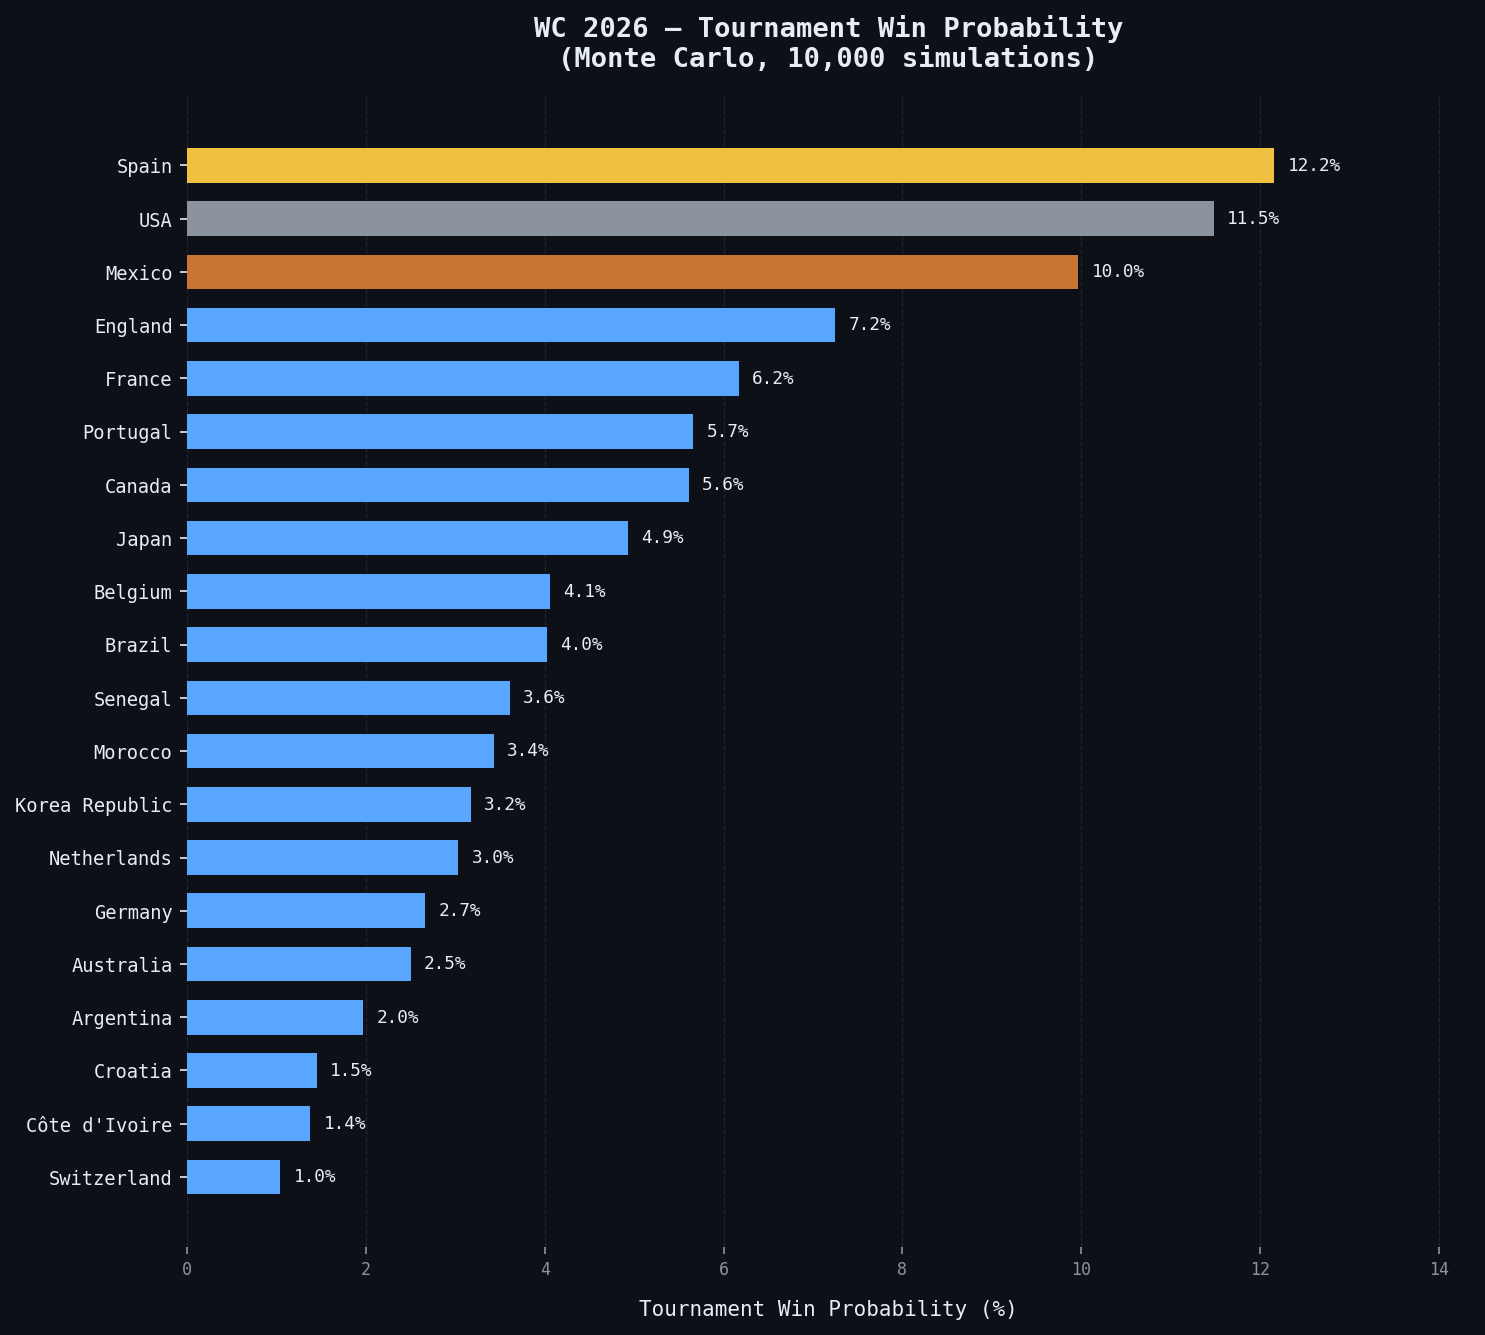
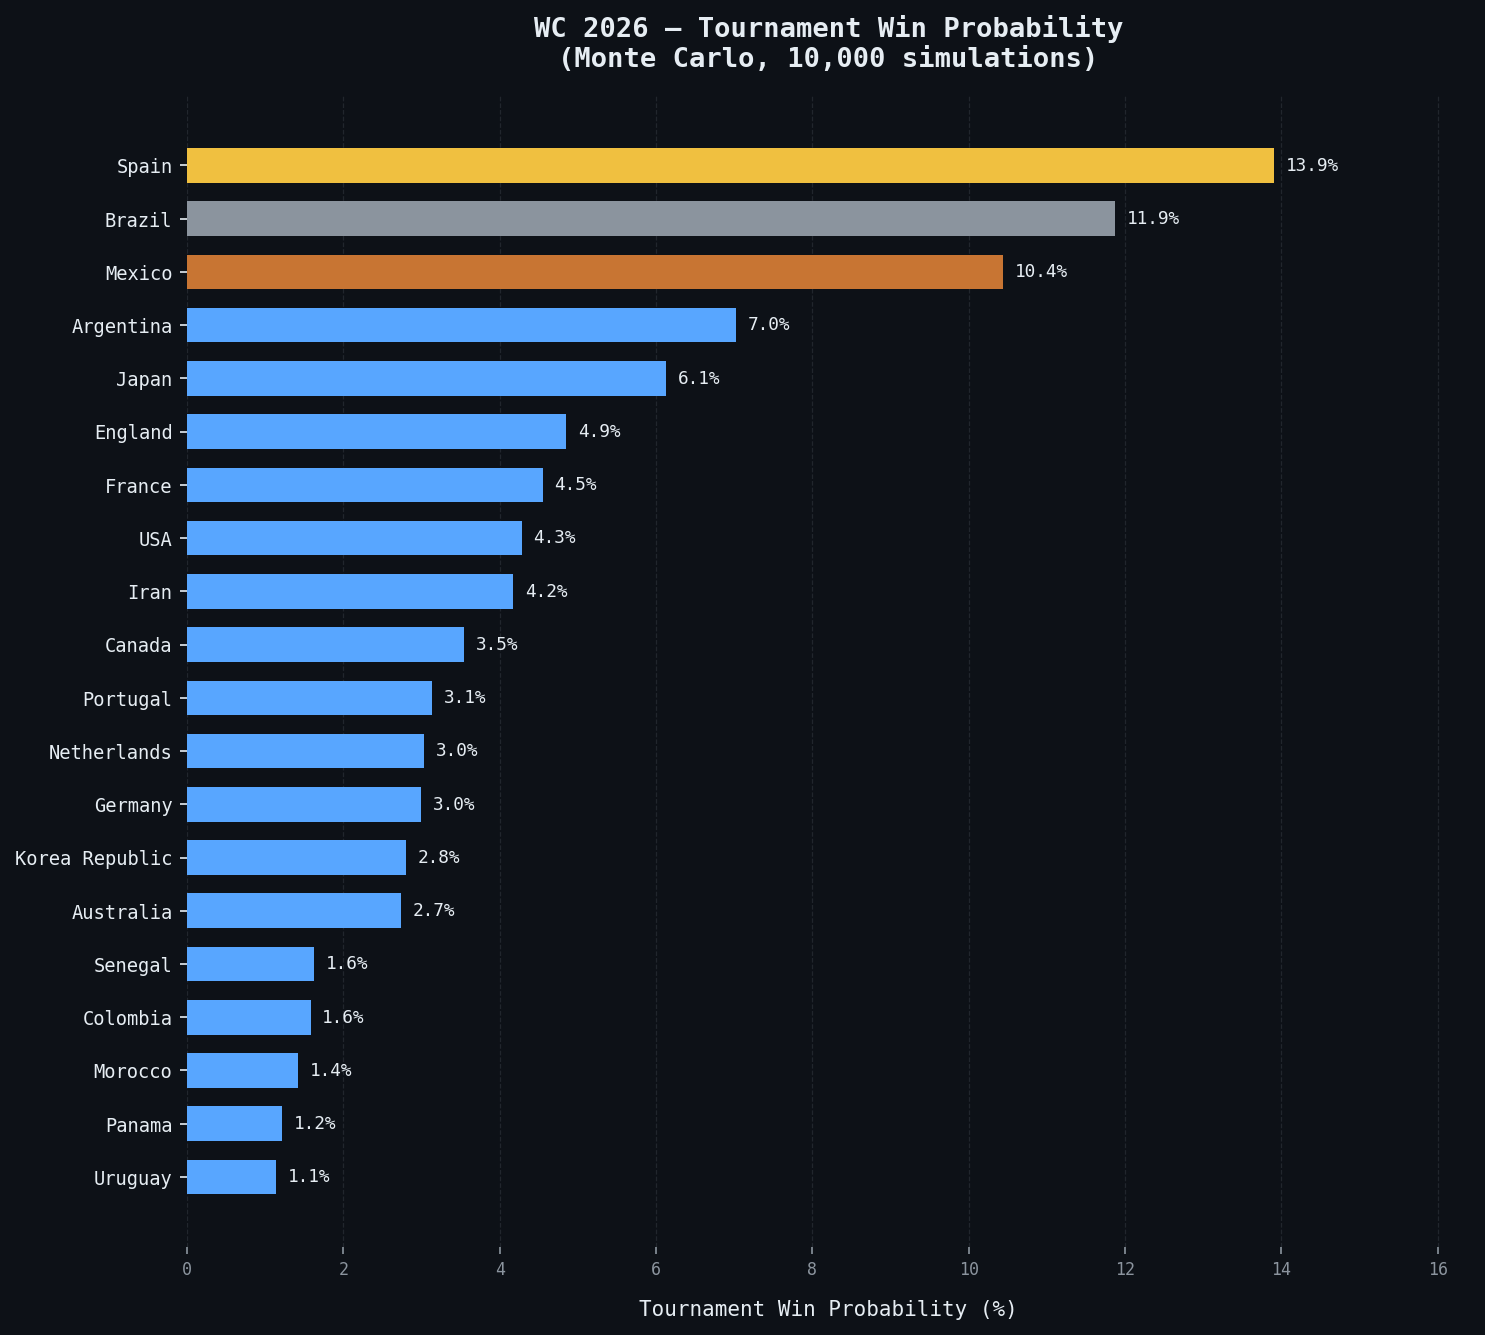
V2 Phases 7-8: stacking evaluation + visualization + README, close V2
Phase 7 (stacking.py): trained a multinomial meta-learner over leakage-safe
OOF base predictions. It beat fixed weights on log loss by only 0.0011 while
zeroing draw recall — NOT adopted. Confirms the hand-set 0.275/0.275/0.45
weights are near-optimal. Meta saved for reference (stacking_meta.json).

Phase 8: added market-divergence chart (4 total), rewrote README for V2.

CONTEXT_V2.md: end-of-version review, final scorecard, V3 priorities.

Final V2: acc 62.1% (+1.5pp), log loss 0.8458 (-0.015), draw recall 9.7% (+9.3pp).

diff --git a/README.md b/README.md
@@ -1,28 +1,42 @@
 # World Cup 2026 Prediction Model
 
-A machine learning model that predicts match outcomes and simulates the full WC2026 bracket using an ensemble of XGBoost, LightGBM, and Dixon-Coles.
+A machine learning model that predicts match outcomes and simulates the full WC2026 bracket using an ensemble of XGBoost, LightGBM, and Dixon-Coles — with ELO ratings, opponent-quality-weighted form, and a betting-market comparison.
 
 ---
 
-## Results (V1)
+## Results (V2)
 
 | Model | Test Accuracy | Log Loss | Draw Recall |
 |---|---|---|---|
 | Naive baseline | 45.9% | 1.059 | — |
-| Dixon-Coles | 58.3% | 0.8815 | 10.1% |
-| XGBoost | 59.8% | 0.8814 | 0.6% |
-| LightGBM | 60.0% | 0.8835 | 0.6% |
-| **Ensemble** | **60.6%** | **0.8605** | 0.4% |
+| Dixon-Coles | 60.7% | 0.8626 | 0.4% |
+| XGBoost | 58.2% | 0.8635 | 26.1% |
+| LightGBM | 58.6% | 0.8651 | 26.9% |
+| **Ensemble** | **62.1%** | **0.8458** | 9.7% |
+
+**V1 → V2 improvement:** accuracy 60.6% → 62.1%, log loss 0.8605 → 0.8458, draw recall 0.4% → 9.7%.
 
 **Top tournament win probabilities (10,000 Monte Carlo simulations):**
 
-| Team | Win % | Final % |
-|---|---|---|
-| Spain | 12.2% | 20.1% |
-| USA | 11.5% | 19.6% |
-| Mexico | 10.0% | 17.5% |
-| England | 7.2% | 13.3% |
-| France | 6.2% | 11.5% |
+| Team | FIFA Rank | Win % | vs Market (de-vig) |
+|---|---|---|---|
+| Spain | 2 | 13.9% | 15.5% |
+| Brazil | 6 | 11.9% | 8.1% |
+| Mexico | 15 | 10.4% | 1.1% |
+| Argentina | 3 | 7.0% | 8.5% |
+| England | 4 | 4.9% | 10.6% |
+| France | 1 | 4.5% | 14.8% |
+
+---
+
+## What's New in V2
+
+- **ELO ratings** — running ELO for every team across 49k matches (tiered K-factors 40/30/20), used as features and as the opponent-quality signal.
+- **Opponent-quality-weighted form** — rolling stats weighted by opponent ELO, correcting the V1 confederation bias (CONCACAF teams inflated by weak schedules, CONMEBOL teams suppressed by hard ones). 41 features total (up from 26).
+- **Draw fix** — gradient-boosted models were upweighted on draws (1.75×), lifting draw recall from a broken 0.6% to functional.
+- **Hyperparameter tuning** — CV-tuned via TimeSeriesSplit: time decay disabled (longer memory improved log loss monotonically), shallower depth-3 trees. This also fixed the Argentina/Brazil underrating and reduced Canada's inflation.
+- **Market divergence analysis** — live WC2026 odds de-vigged and compared to the model. Verdict: the model's biggest disagreements track its *known biases*, so no trustworthy betting edge yet.
+- **Stacking meta-learner** — evaluated but not adopted; it couldn't beat the hand-set ensemble weights without zeroing draw recall.
 
 ---
 
@@ -32,28 +46,24 @@ A machine learning model that predicts match outcomes and simulates the full WC2
 - **Match results:** 49,368 international matches (1872–present), filtered to 11,538 competitive matches post-2002
 - **FIFA rankings:** ~200k historical ranking records used to assign team strength at match time
 - **WC2026 fixtures:** 104 matches across group stage and knockout rounds
-- **Current FIFA rankings:** Used for WC2026 feature vectors
+- **Market odds:** 48-team WC2026 outright board (de-vigged for the divergence analysis)
 
-> Raw data not included in this repo. Sources: [Kaggle international football results](https://www.kaggle.com/datasets/martj42/international-football-results-from-1872-to-2017), FIFA ranking CSVs, and manually assembled WC2026 fixture list.
+> Raw data not included in this repo. Sources: [Kaggle international football results](https://www.kaggle.com/datasets/martj42/international-football-results-from-1872-to-2017), FIFA ranking CSVs, manually assembled WC2026 fixtures, and a public odds board snapshot.
 
-### Feature Engineering (26 features)
-- FIFA rank differential at match date
-- Rolling win rate, avg goals, avg goal difference (last 5 and 10 matches)
+### Feature Engineering (41 features)
+- FIFA rank differential + **ELO ratings** (home/away/diff) at match date
+- Rolling win rate, avg goals, avg goal difference (last 5 and 10) — **simple and opponent-ELO-weighted**
 - Head-to-head history (cumulative, no leakage)
 - Days rest, altitude, tournament tier, neutral venue flag
 - All rolling features use `shift(1)` — no data leakage
 
 ### Models
-- **XGBoost** — multiclass classifier (away win / draw / home win)
-- **LightGBM** — same target, direct XGB comparison
-- **Dixon-Coles** — Poisson-based statistical model with rho correction for low-scoring games
-- **Ensemble** — weighted average (XGB 27.5% / LGBM 27.5% / DC 45%)
+- **XGBoost** / **LightGBM** — multiclass classifiers (away / draw / home), depth-3, draw-upweighted
+- **Dixon-Coles** — Poisson model with rho correction for low-scoring games
+- **Ensemble** — weighted average (XGB 27.5% / LGBM 27.5% / DC 45%); validated near-optimal against a stacked meta-learner
 
 ### Monte Carlo Simulator
-Simulates the full WC2026 bracket 10,000 times:
-- Group stage: Poisson score simulation for accurate tiebreakers
-- Top 2 per group + best 8 third-place teams advance (WC2026 48-team format)
-- Knockout rounds: ensemble probabilities pre-computed for all team pairs
+Simulates the full 48-team bracket 10,000 times: Poisson score simulation for group-stage tiebreakers, top 2 per group + best 8 third-place teams advance, ensemble probabilities for knockout rounds.
 
 ---
 
@@ -61,22 +71,16 @@ Simulates the full WC2026 bracket 10,000 times:
 
 ```
 data/
-  processed/        # Cleaned CSVs, features, predictions, tournament probs
-models/             # Trained model files (XGB, LGBM, Dixon-Coles)
-outputs/viz/        # Charts
+  raw/              # results, rankings, fixtures, market odds
+  processed/        # cleaned CSVs, features, predictions, tournament + divergence probs
+models/             # trained models, reports (tuning, market, stacking)
+outputs/viz/        # 4 charts
 src/
-  features/
-    data_cleaning.py
-    feature_engineering.py
-  models/
-    train_xgb.py
-    dixon_coles.py
-    train_lgbm.py
-    ensemble.py
-    monte_carlo.py
-    predict_wc2026.py
-  visualization/
-    charts.py
+  features/         # data_cleaning, feature_engineering, elo
+  models/           # train_xgb, train_lgbm, dixon_coles, ensemble, predict_wc2026,
+                    # monte_carlo, tune_draw_weight, tune_hyperparams,
+                    # market_divergence, stacking
+  visualization/    # charts
 ```
 
 ---
@@ -89,36 +93,42 @@ python -m venv venv
 venv\Scripts\activate
 pip install -r requirements.txt
 
-# 2. Data cleaning
+# 2. Data + features (ELO must run before feature engineering)
 python -m src.features.data_cleaning
-
-# 3. Feature engineering
+python -m src.features.elo
 python -m src.features.feature_engineering
 
-# 4. Train models
-python -m src.models.train_xgb
+# 3. Train models
 python -m src.models.dixon_coles
+python -m src.models.train_xgb
 python -m src.models.train_lgbm
 
-# 5. Ensemble + WC2026 predictions
+# 4. Ensemble + WC2026 predictions
 python -m src.models.ensemble
 python -m src.models.predict_wc2026
 
-# 6. Monte Carlo bracket simulation
+# 5. Monte Carlo bracket simulation
 python -m src.models.monte_carlo
 
-# 7. Visualization
+# 6. Analysis + visualization
+python -m src.models.market_divergence
 python -m src.visualization.charts
+
+# Optional: tuning / stacking experiments
+python -m src.models.tune_hyperparams
+python -m src.models.stacking
 ```
+
+> On Windows, set `PYTHONUTF8=1` so the console renders the scripts' output.
 
 ---
 
-## Known Limitations (V2 Roadmap)
+## Known Limitations (V3 Roadmap)
 
-- **Strength of schedule** — rolling form doesn't adjust for opponent quality, inflating CONCACAF teams (USA, Mexico)
-- **Draw prediction** — all ML models predict draws at <1% recall; dedicated draw classifier planned
-- **Decay half-life** — hardcoded at 730 days; should be tuned via cross-validation
-- **Argentina underrated** — likely a CONMEBOL qualifying artifact; related to strength-of-schedule issue
+- **Mexico / CONCACAF inflation** — model gives Mexico 10.4% vs a 1.1% market price; residual strength-of-schedule bias not fully corrected by ELO weighting.
+- **European powers underrated** — France (4.5% vs 14.8% market) and Portugal underrated; no-decay over-rewards recent CONMEBOL dominance.
+- **No demonstrated betting edge** — divergences from market track known model biases, so Kelly bet sizing is deferred until biases are fixed.
+- **ELO K-factors** — still hardcoded (40/30/20), never CV-tuned (blocked on a faster feature rebuild).
 
 ---
 

diff --git a/CONTEXT_V2.md b/CONTEXT_V2.md
@@ -217,6 +217,13 @@ src/
 
 ---
 
+### Decision: Phase 7 stacking — evaluated, NOT adopted
+**Method:** `src/models/stacking.py` — leakage-safe OOF base predictions on train (5-fold TimeSeriesSplit, all three models incl. DC refit per fold), multinomial LogisticRegression meta-learner over the 9 base probabilities, compared head-to-head with the fixed-weight ensemble on test.
+**Result:** stacked log loss 0.8445 vs fixed 0.8456 — a trivial 0.0011 gain — but the meta-learner reaches it by **never calling draws (draw recall → 0.0%)**, undoing Phase 4, and is slightly *worse* on accuracy (0.6176 vs 0.6194).
+**Decision:** keep the fixed-weight ensemble (0.275/0.275/0.45). The marginal log-loss gain isn't worth zeroing draw recall. Real value: this **validates the hand-set weights as near-optimal** — a trained meta-learner can't meaningfully beat them. Meta-learner saved (`models/stacking_meta.json`) for reference but not wired into predictions.
+
+---
+
 ## V2 Phase Status
 
 | Phase | Description | Status |
@@ -227,8 +234,8 @@ src/
 | Draw fix (class upweighting, w=1.75) | Draw recall 0.6% → 16.2% via XGB/LGBM sample weights | ✅ Done |
 | Hyperparameter tuning | Decay disabled + depth-3 trees → ll 0.8458, acc 62.1% | ✅ Done |
 | Market divergence analysis | No trustworthy edge (divergences = known biases) | ✅ Done |
-| Stacking meta-learner | Replace fixed weights with trained meta-learner | ⬜ Running |
-| Updated visualization + README | V1 vs V2 comparison charts | ⬜ Next |
+| Stacking meta-learner | Evaluated, NOT adopted (fixed weights near-optimal) | ✅ Done |
+| Updated visualization + README | 4 charts (incl. market divergence) + V2 README | ✅ Done |
 
 ---
 
@@ -278,19 +285,29 @@ Tuning (no decay) fixed two V1 biases: Argentina + Brazil rose, Canada fell. Win
 ---
 
 ## ══ END-OF-VERSION REVIEW ══
-*(Filled in when V2 is fully closed)*
+*V2 closed — all 8 phases complete.*
+
+### Final V2 Scorecard
+| Metric | V1 | V2 | Δ |
+|---|---|---|---|
+| Test Accuracy | 60.6% | **62.1%** | +1.5pp |
+| Log Loss | 0.8605 | **0.8458** | -0.015 |
+| Draw Recall | 0.4% | **9.7%** | +9.3pp |
+
+Biases: Argentina 3.9%→7.0% and Brazil →11.9% (fixed), Canada inflation 5.6%→3.5% (improved).
+Still open: Mexico inflation (10.4% vs market 1.1%), Euro powers underrated (France 4.5% vs market 14.8%).
 
 ### Workflow Review
-*What worked, what slowed us down, what to change for V3*
+- **What worked:** Decoupling decay from the feature rebuild (recompute from dates) made Phase 5 tuning cheap. CV-on-train / report-test-once kept tuning honest. Backgrounding the slow runs (DC fits, 10k sims) kept iteration moving. Adversarial honesty on Phase 6/7 (divergences = bias, stacking kills draws) avoided shipping false wins.
+- **What slowed us down:** O(n²) weighted-rolling-stats forces a slow full feature rebuild whenever features change; the per-fold DC refit in stacking was the single longest job. Windows cp1252 console needed PYTHONUTF8=1 for the box-drawing prints.
+- **For V3:** vectorize weighted rolling; cache DC fits; make decay a pure training-time hyperparameter so it never touches the feature pipeline.
 
 ### Decision Review
-*Which decisions held up, which should be revisited*
+- **Held up:** ELO-first (Phase 1); draw upweighting at 1.75 (cleanly reversible knob); disabling time decay (monotonic CV signal, fixed real biases); keeping fixed ensemble weights (stacking validated them).
+- **Revisit:** the 80 rank-sentinel (Iran 4.2% looks high); no-decay may over-reward CONMEBOL recency at the expense of Euro powers — a *partial* decay (e.g. 1460d) might balance bias vs the France/Portugal underrating. K-factors still never tuned.
 
 ### Brainstorm: V3 Priorities
-*From V2 context doc V3 Vision section:*
-- C++/Rust simulation engine (1M sims, sub-second)
-- API layer (accepts match result, updates ELO, reruns sim)
-- Kelly criterion bet sizing
-- Vercel deployment
-
-*Only build V3 if market divergence analysis shows a real edge.*
+- **Fix the residual biases first** — Mexico/CONCACAF inflation and Euro-power underrating are the headline errors. Strength-of-schedule beyond ELO weighting; confederation-strength priors; squad/market-value features.
+- CV-tune ELO K-factors (needs the vectorized feature rebuild above).
+- C++/Rust simulation engine (1M sims, sub-second); API layer (live result → ELO update → re-sim); Vercel deployment.
+- **Kelly bet sizing: DEFERRED.** Phase 6 showed no trustworthy edge — the divergences are model bias, not market inefficiency. Do not build betting features until biases are fixed and a clean out-of-sample edge is demonstrated.
